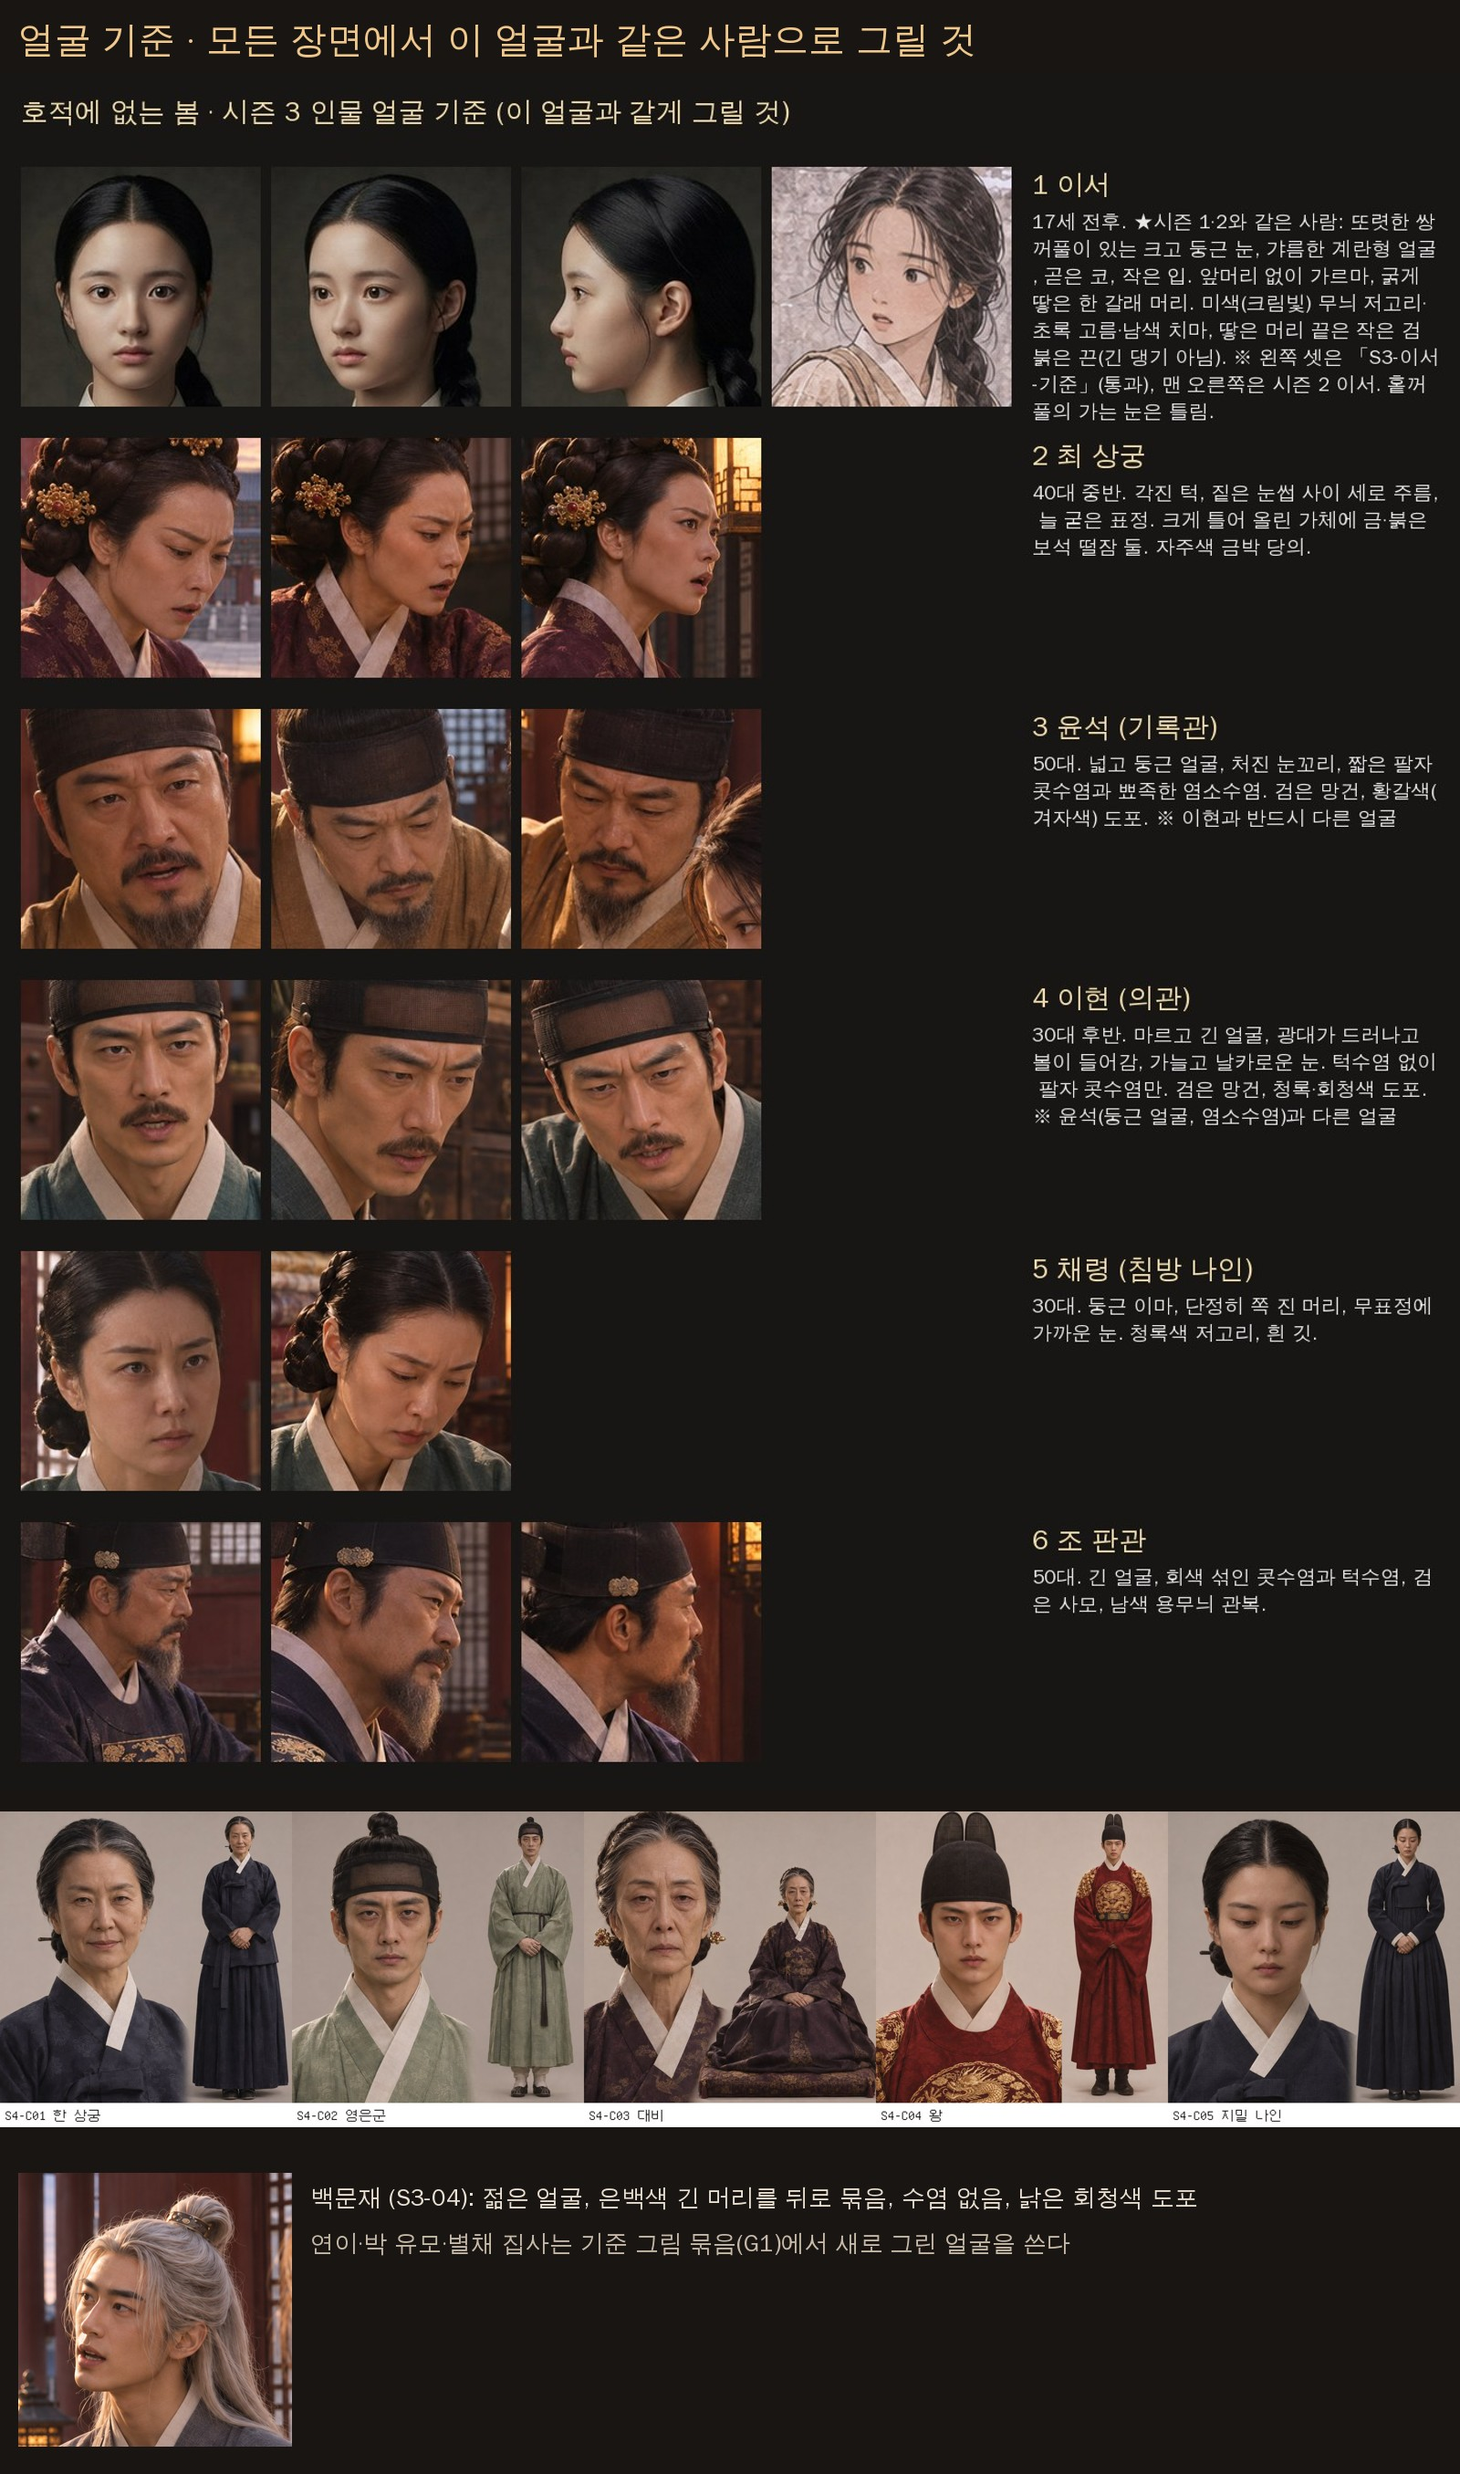
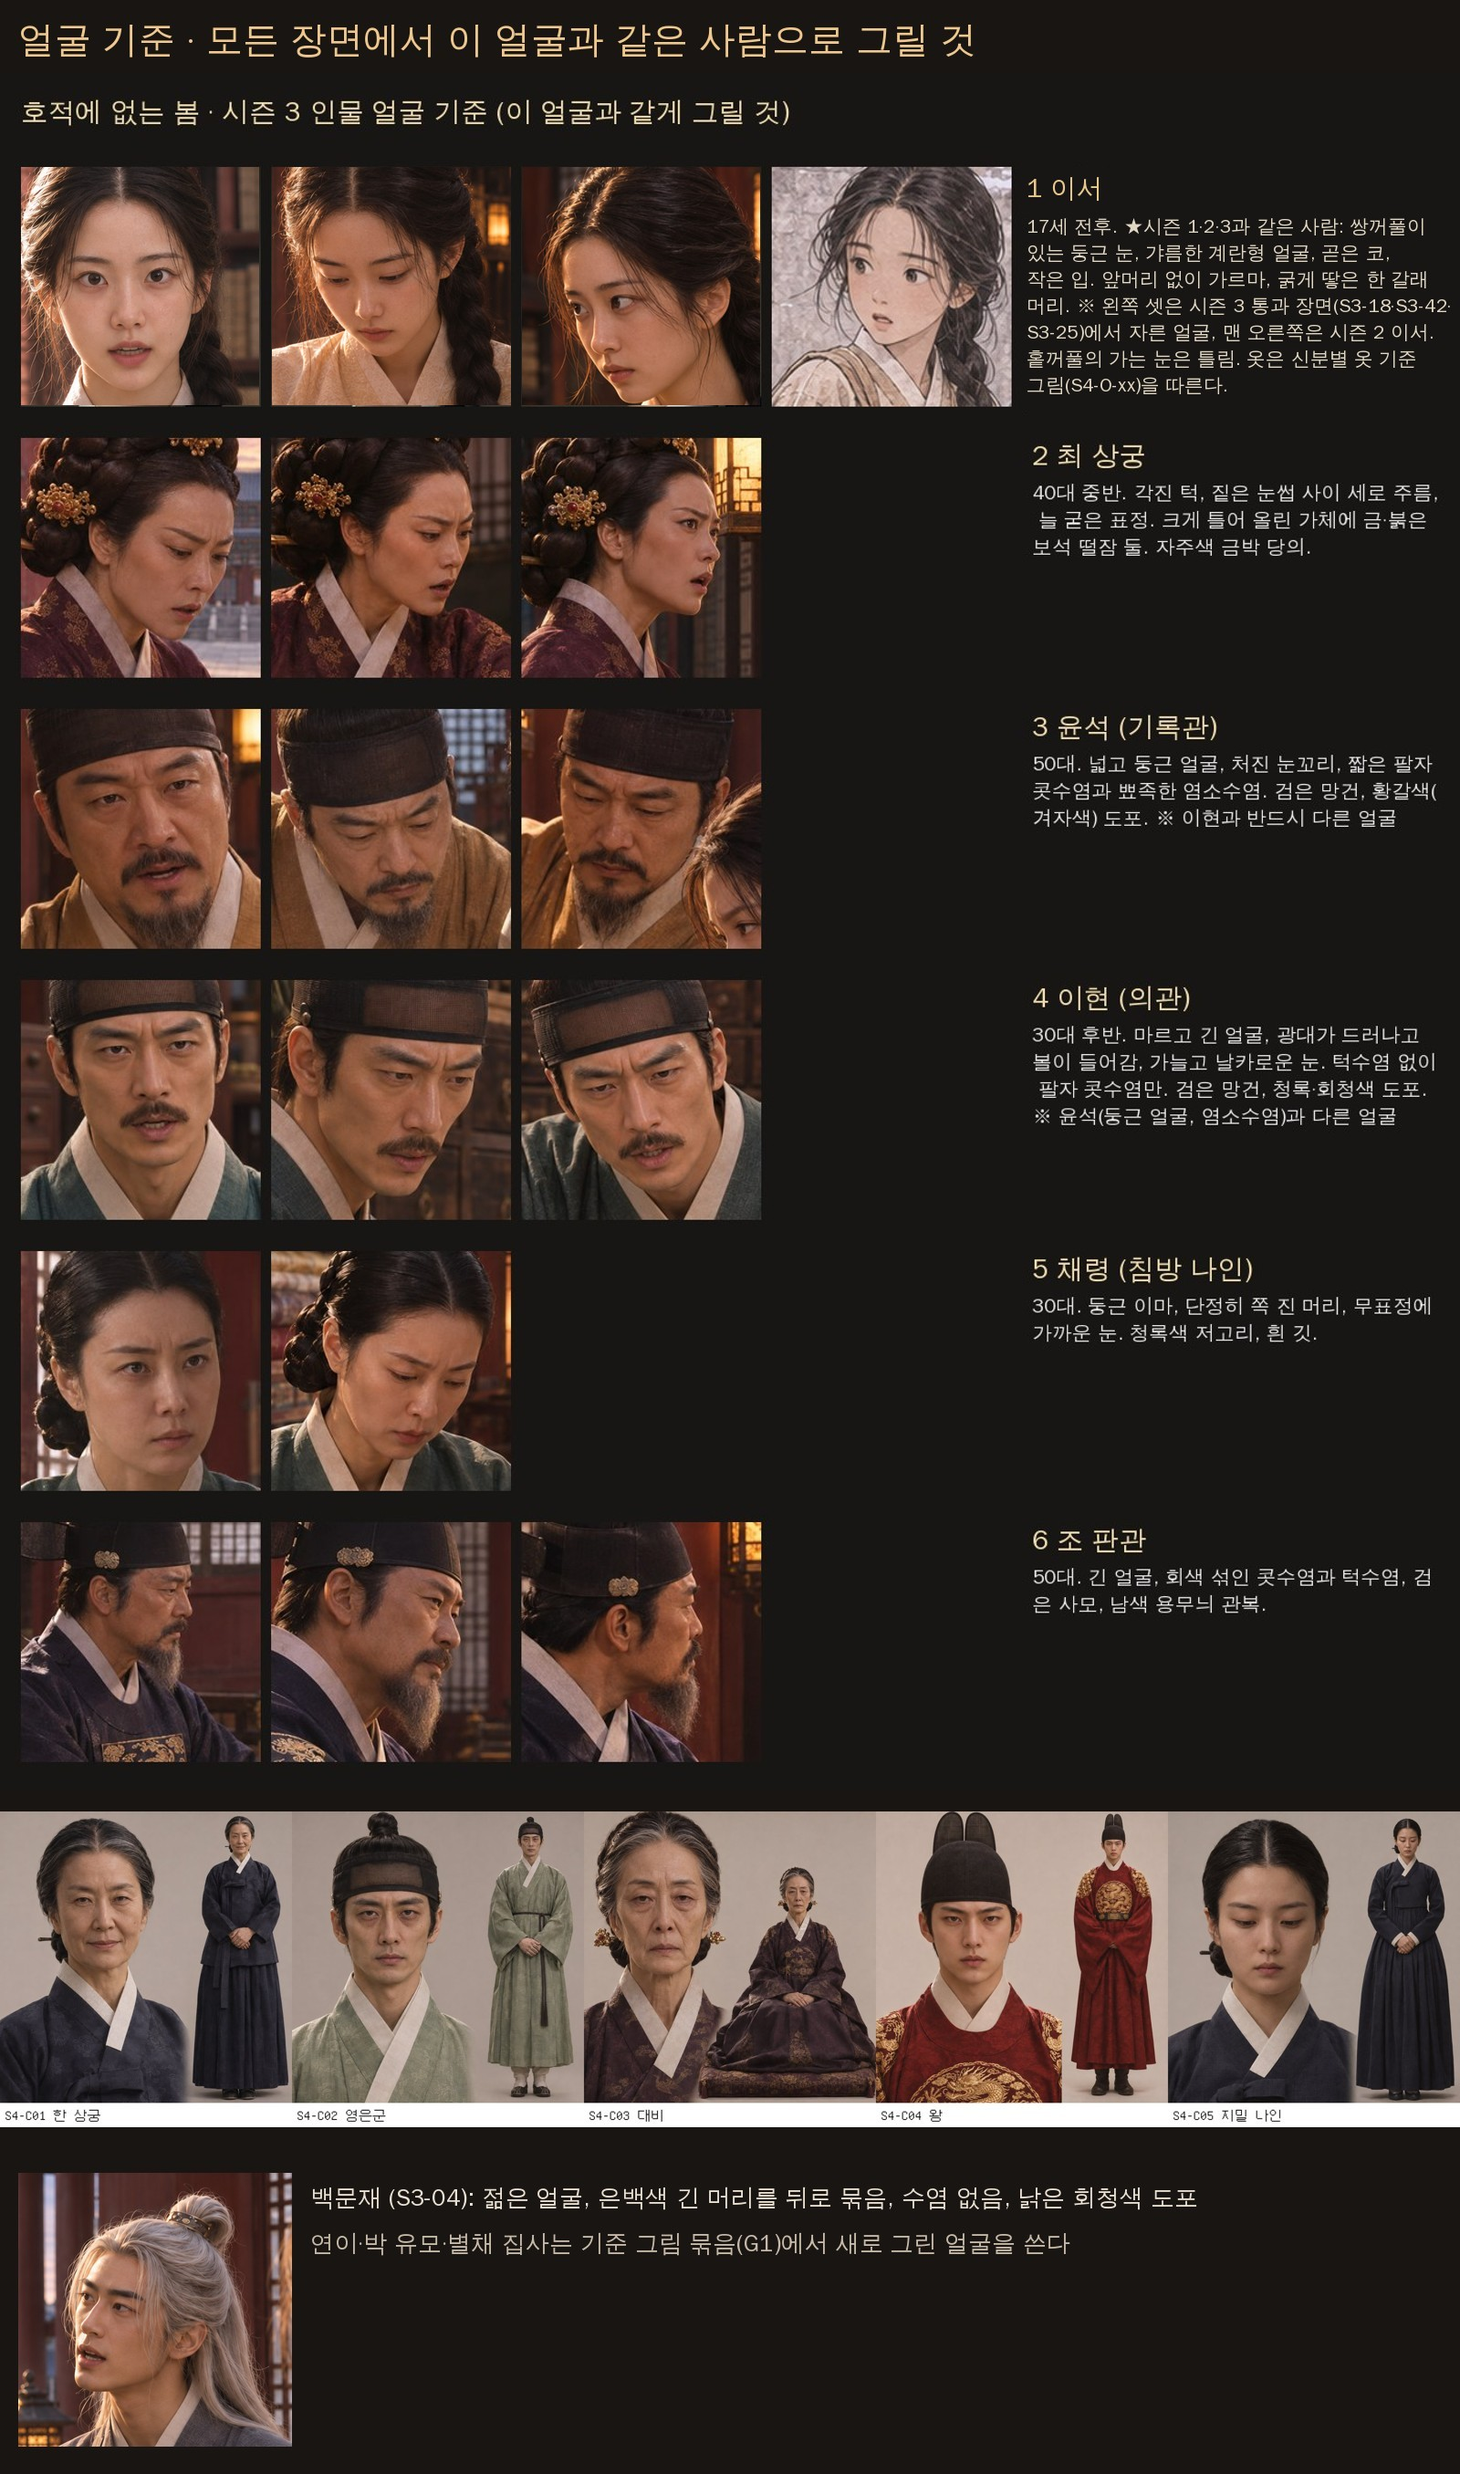
Season 4: use passed S3 scene faces as the Iseo reference; re-review G1 (5 pass)
Claude-Session: https://claude.ai/code/session_01VZgG2bX25gLRz4FyidLT13

Changed region(s): [[0.0, 0.062, 0.5312, 0.1859], [0.6875, 0.062, 1.0, 0.1859]]

diff --git a/docs/season-4-image-requests-gemini.md b/docs/season-4-image-requests-gemini.md
@@ -29,7 +29,7 @@
 ```
 
 ### 이서 얼굴 (모든 그림 공통)
-17세 전후. **또렷한 쌍꺼풀이 있는 크고 둥근 눈**, 갸름한 계란형 얼굴, 곧은 코, 작은 입, 앞머리 없이 가르마. 기준은 얼굴 기준판 맨 위 「S3-이서-기준」 세 장. 홑꺼풀의 가는 눈이면 무조건 다시.
+17세 전후. **또렷한 쌍꺼풀이 있는 크고 둥근 눈**, 갸름한 계란형 얼굴, 곧은 코, 작은 입, 앞머리 없이 가르마. 기준은 얼굴 기준판 맨 위 왼쪽 세 장(시즌 3 통과 장면 S3-18·S3-42·S3-25에서 자른 얼굴). 예전 「S3-이서-기준」(인물표 그림)은 기준이 아니다(2026-11-24 사용자 지정). 홑꺼풀의 가는 눈이면 무조건 다시.
 
 ### 이서의 옷 (신분에 따라 여섯 가지, 옷 기준 그림 G1에서 확정)
 | 코드 | 신분 | 옷과 머리 |
@@ -66,7 +66,7 @@ S4-16b · S4-30b · S4-35b · S4-37b · S4-40b — 신분마다 말하는 사람
 
 | 파일 | 그릴 것 |
 |---|---|
-| S4-O-MU.png | 이서 전신 정면, 연회색 무지 배경, 차렷 자세. 무수리 옷(위 표 MU). 얼굴은 「S3-이서-기준」과 같은 사람. |
+| S4-O-MU.png | 이서 전신 정면, 연회색 무지 배경, 차렷 자세. 무수리 옷(위 표 MU). 얼굴은 얼굴 기준판 맨 위 이서(시즌 3 장면 얼굴)와 같은 사람. |
 | S4-O-SE.png | 같은 구도·배경. 기록청 서사 옷(SE). |
 | S4-O-UI.png | 같은 구도·배경. 의녀 옷(UI). |
 | S4-O-NA.png | 같은 구도·배경. 견습 나인 옷(NA), 새앙머리. |
@@ -78,33 +78,29 @@ S4-16b · S4-30b · S4-35b · S4-37b · S4-40b — 신분마다 말하는 사람
 | S4-G1-check.png | 확인용: 이서(SE 옷)와 연이가 나란히 서서 화면을 보는 중간 구도, 궁궐 회랑. 두 얼굴이 기준과 같은지 보는 그림(사이트에는 쓰지 않음). |
 
 
-### G1 검수 1차 (2026-11-24) — 2장 통과, 8장 다시
+### G1 검수 1차 (2026-11-24, 이서 기준을 시즌 3 장면 얼굴로 바로잡아 다시 봄) — 5장 통과, 2장 덧그림, 3장 다시
+
+이서 얼굴은 시즌 3 통과 장면(S3-18·S3-42·S3-25)과 나란히 놓고 봤다: 쌍꺼풀 있는 둥근 눈, 갸름한 얼굴, 가르마가 같아 같은 사람으로 본다.
 
 | 파일 | 결과 | 이유 · 고칠 점 |
 |---|---|---|
-| S4-O-MU | 다시(얼굴) | 옷·머릿수건·걷은 소매·짚신은 맞음. 얼굴이 기준보다 눈이 작고 갸름한 아몬드형, 쌍꺼풀이 흐리고 20대처럼 보임. |
-| S4-O-SE | 다시(얼굴) | 옷·먹 자국·검붉은 끈 맞음. 얼굴은 MU와 같은 문제. |
-| S4-O-UI | 다시(얼굴) | 옷·약주머니·말아 묶은 머리 맞음. 얼굴은 MU와 같은 문제. |
-| S4-O-NA | 다시(얼굴·머리) | 연두·남색·자주 댕기 맞음. 얼굴은 MU와 같은 문제. 정면이라 새앙머리인지 보이지 않음. |
-| S4-O-OJ | 다시(얼굴·옷·자세) | 가슴의 둥근 용무늬 보는 왕비·대비 옷이라 옹주에게 맞지 않음(금박 꽃무늬만). 두 손을 등 뒤로 숨김(차렷 아님). 얼굴은 MU와 같은 문제. |
-| S4-O-BN | 다시(얼굴·머리) | 회색빛 옥색·먹색·검은 댕기 맞음(NA와 색 구분 됨). 얼굴·새앙머리는 NA와 같은 문제. |
+| S4-O-MU | **통과** | 회갈색 무명, 머릿수건, 걷은 소매, 짚신, 수건 아래 땋은 머리. |
+| S4-O-SE | **통과** | 옅은 쪽빛 저고리, 남색 치마, 소매 끝 먹 자국, 검붉은 끈. |
+| S4-O-UI | **통과** | 흰 저고리, 옥색 치마, 약주머니, 말아 묶은 머리. |
+| S4-O-NA | 통과 · 뒷모습 덧그림 | 연두·남색·자주 댕기 맞음. 정면이라 새앙머리가 안 보여 뒷모습 한 장 더. |
+| S4-O-BN | 통과 · 뒷모습 덧그림 | 회색빛 옥색·먹색·검은 댕기 맞음(NA와 색 구분 됨). 새앙머리 확인용 뒷모습 한 장 더. |
+| S4-O-OJ | 다시(옷·자세) | 가슴의 둥근 용무늬 보는 왕비·대비 옷이라 옹주에게 맞지 않음(금박 꽃무늬만). 두 손을 등 뒤로 숨김(차렷 아님). 얼굴은 통과. |
 | S4-C06 연이 | 다시 | 두 갈래가 아니라 한 갈래 땋은 머리. 10~11세로 보임(7~8세여야 함). |
 | S4-C07 박 유모 | **통과** | docs/gemini-s4/S4-C07.jpg |
 | S4-C08 별채 집사 | **통과** | 왼쪽 아래 빈칸은 기준 그림이라 문제없음. docs/gemini-s4/S4-C08.jpg |
-| S4-G1-check | 다시 | 그림체·회랑·빛은 맞음. 이서·연이 얼굴이 위와 같은 문제라 고친 기준으로 다시. |
+| S4-G1-check | 다시 | 그림체·회랑·빛·이서 얼굴은 맞음. 연이를 고친 뒤 다시. |
 
-**다시 그릴 때 (제미나이에 새로 그리게 하지 말고, 올린 그림을 첨부해 "이 그림에서 얼굴만 고쳐 주세요"로 고치는 편이 옷이 덜 바뀜):**
+**다시 그릴 때 (새로 그리게 하지 말고, 올린 그림을 첨부해 "이 그림에서 ○○만 고쳐 주세요"로 고치는 편이 다른 곳이 덜 바뀜):**
 
-이서 여섯 장 공통(고정 문장 + 얼굴 기준판 첨부 뒤):
-```
-이 그림에서 옷·머리·자세·배경은 그대로 두고 얼굴만 고쳐 주세요. 첨부한 「S3-이서-기준」과 같은 사람이어야 합니다:
-눈을 지금보다 훨씬 크고 동그랗게, 또렷한 쌍꺼풀, 검은 눈동자가 크게 보이게. 눈 사이는 조금 더 넓게.
-얼굴은 더 작고 갸름한 계란형, 턱 끝이 가늘게. 17세 소녀처럼 앳되게(지금은 너무 성숙해 보임).
-```
-S4-O-OJ 추가: `가슴의 둥근 용무늬 장식은 지우고 금박 꽃무늬만 남겨 주세요(옹주 옷). 두 손은 몸 옆에 내린 차렷 자세로.`
-S4-O-NA · S4-O-BN 추가: 얼굴을 고친 뒤 같은 옷·배경으로 **뒤로 돌아선 모습** 한 장씩 더(`S4-O-NA-back.png`, `S4-O-BN-back.png`): `두 갈래로 땋아 귀 뒤로 올려 묶은 새앙머리와 댕기가 잘 보이게.`
-S4-C06 연이: `머리를 두 갈래로 땋아 양쪽 어깨 앞으로 내려 주세요(한 갈래 아님). 나이는 7~8세로 더 어리게: 키가 작고 볼이 통통하고 얼굴이 더 동그랗게.`
-S4-G1-check: 위 그림들이 통과한 뒤, 고친 S4-O-SE와 S4-C06을 첨부해 다시.
+S4-O-OJ: `이 그림에서 얼굴·머리·색·배경은 그대로 두고, 가슴의 둥근 용무늬 장식만 지우고 금박 꽃무늬만 남겨 주세요(옹주 옷). 두 손은 몸 옆에 내린 차렷 자세로.`
+S4-O-NA-back.png · S4-O-BN-back.png: 각 옷 그림을 첨부해 `같은 사람·같은 옷·같은 배경으로 뒤로 돌아선 전신. 두 갈래로 땋아 귀 뒤로 올려 묶은 새앙머리와 댕기가 잘 보이게.`
+S4-C06 연이: `이 그림에서 옷·배경·형식은 그대로 두고, 머리를 두 갈래로 땋아 양쪽 어깨 앞으로 내려 주세요(한 갈래 아님). 나이는 7~8세로 더 어리게: 키가 작고 볼이 통통하고 얼굴이 더 동그랗게.`
+S4-G1-check: 고친 S4-C06이 통과한 뒤, S4-O-SE와 S4-C06을 첨부해 다시.
 
 ---
 

diff --git a/docs/new-cuts-pipeline.md b/docs/new-cuts-pipeline.md
@@ -74,7 +74,7 @@
 5. 금지 요소: 글자, 말풍선, 서명, 테두리, 여러 칸 분할이 없다. 손가락·문서·소품이 크게 어색하지 않다.
 6. 몸과 손: 보이는 손·팔마다 그 몸이 화면 안에(또는 문틀·가장자리 뒤에 자연스럽게) 이어진다. 벽·담·허공에서 팔만 나오면 안 된다(S3-62 반려 사례). 손가락 수, 두 손의 좌우가 맞다.
 7. 시선과 방향: 인물이 보는 곳·가리키는 곳·걷는 방향이 장면의 사건(불, 문, 말하는 사람)과 맞는다. 사건과 다른 쪽을 가리키면 반려한다(S3-63 반려 사례).
-8. 얼굴 비교는 눈대중으로 하지 않는다: 새 컷의 이서(와 주요 인물) 얼굴을 잘라 기준 컷과 나란히 놓고 본다. 시즌 3 이서는 시즌 1·2 이서와 같은 사람이므로 「S3-이서-기준.png」(docs/s3-iseo-reference.png, 2026-11-21 통과)와 시즌 1·2 이서 얼굴(S1-12·S1-14·S2-19·S2-22)을 함께 놓는다. 눈은 또렷한 쌍꺼풀이 있는 크고 둥근 눈이어야 한다(홑꺼풀의 가는 눈은 탈락). 그리는 도구가 바뀐 묶음(예: ChatGPT → 제미나이)은 특히 얼굴형을 다시 본다.
+8. 얼굴 비교는 눈대중으로 하지 않는다: 새 컷의 이서(와 주요 인물) 얼굴을 잘라 기준 컷과 나란히 놓고 본다. 시즌 3 이서는 시즌 1·2 이서와 같은 사람이므로 「S3-이서-기준.png」(docs/s3-iseo-reference.png, 2026-11-21 통과)와 시즌 1·2 이서 얼굴(S1-12·S1-14·S2-19·S2-22)을 함께 놓는다. 눈은 또렷한 쌍꺼풀이 있는 크고 둥근 눈이어야 한다(홑꺼풀의 가는 눈은 탈락). 그리는 도구가 바뀐 묶음(예: ChatGPT → 제미나이)은 특히 얼굴형을 다시 본다. 시즌 4는 「S3-이서-기준」 대신 시즌 3 통과 장면(S3-18·S3-42·S3-25)에서 자른 얼굴(docs/gemini-s4/G0-face-board.jpg 맨 위)을 기준으로 한다(2026-11-24 사용자 지정).
 9. 머리 모양·거울·그림자도 본다: 이서는 시즌 내내 한 갈래로 땋아 어깨로 내린 머리다(다른 모양이면 탈락). 거울 속 모습은 실제 자세를 좌우만 뒤집은 것이어야 한다(들고 있는 물건의 위치, 땋은 머리의 방향).
 10. 대사와 거리도 맞춘다: 그림 속 두 사람이 멀리 떨어져 있거나 한쪽이 숨어 지켜보면, 마주 보고 주고받는 대사를 붙이지 않는다. 그림을 고칠지 글을 고칠지 먼저 정한다.
 11. 시즌을 넘는 인물은 앞 시즌과 비교한다: 그림체가 바뀌어도 눈꺼풀·눈 크기·얼굴형·가르마 같은 생김새는 같아야 한다. 기준표 글을 쓸 때도 앞 시즌 그림을 보고 적는다(시즌 3 기준표에 '쌍꺼풀 없는 눈'이라고 잘못 적어 51장을 다시 그리게 된 일이 있었다).

diff --git a/docs/season-4-script.md b/docs/season-4-script.md
@@ -599,7 +599,7 @@
 ## 실패 결말 그림 (모든 장면에 그림을 붙인다 · 2026-11-23 결정)
 
 > 실패 결말은 장면마다 그림이 있어야 몰입된다. 아래 21장은 실패 결말 7개 × 3장면에 하나씩 붙는다.
-> 그림체: 시즌 3과 같은 사극 드라마풍. 이서 얼굴은 docs/s3-iseo-reference.png 기준(쌍꺼풀 큰 눈, 한 갈래 땋은 머리, 크림빛 무늬 저고리·초록 고름·남색 치마. 신분에 따라 옷만 바뀐다).
+> 그림체: 시즌 3과 같은 사극 드라마풍. 이서 얼굴은 시즌 3 통과 장면(S3-18·S3-42·S3-25) 얼굴 기준(docs/gemini-s4/G0-face-board.jpg 맨 위; s3-iseo-reference.png는 쓰지 않음. 쌍꺼풀 둥근 눈, 한 갈래 땋은 머리, 크림빛 무늬 저고리·초록 고름·남색 치마. 신분에 따라 옷만 바뀐다).
 > 새 인물(그리기 전에 인물 기준 그림을 먼저 만든다): **한 상궁**(예순 가까운 지밀 상궁, 흰머리 섞인 쪽머리, 짙은 남색 당의, 손등에 오래된 바늘 자국, 작은 미소) · **영은군**(서른 중반 종친, 옅은 옥색 도포, 먹물 밴 손가락, 눈 밑이 어둡다) · **대비**(발 너머 실루엣 위주, 늙고 지친 얼굴) · **왕**(열아홉, 곤룡포, 웃지 않는 얼굴) · **지밀 나인**(대비전 나인, 표정 없음) · **별채 집사**(시즌 2 별채 집사와 같은 얼굴).
 > 폭력·죽음은 직접 그리지 않는다. 글자·말풍선·테두리 없음.
 
